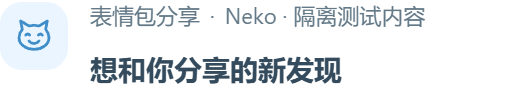
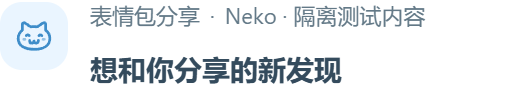
style: 调圆表情包猫脸并增加软萌表情

Changed region(s): [[0.0295, 0.3478, 0.1181, 0.5435], [0.0295, 0.2174, 0.1181, 0.3043]]

diff --git a/frontend/react-neko-chat/src/ProactiveRecommendationBlock.tsx b/frontend/react-neko-chat/src/ProactiveRecommendationBlock.tsx
@@ -12,7 +12,7 @@ const icons: Record<ProactiveBlock['category'], ReactNode> = {
   community: <><path d="M7 10a4 4 0 1 1 7 2M4 20v-2a5 5 0 0 1 9-3M17 13v6m-3-3h6" /></>,
   video: <><rect x="3" y="5" width="18" height="14" rx="4" /><path d="m10 9 5 3-5 3Z" /></>,
   personal: <><path d="M8 18H5l-2 3V8a4 4 0 0 1 4-4h10a4 4 0 0 1 4 4v6a4 4 0 0 1-4 4h-4M8 9h8M8 13h5" /></>,
-  meme: <><path d="M5 8 4 3l5 3a10 10 0 0 1 6 0l5-3-1 5a8 8 0 0 1 2 5c0 4-4 7-9 7s-9-3-9-7a8 8 0 0 1 2-5Z" /><path d="M7 11.5c.7-1 1.7-1 2.4 0m5.2 0c.7-1 1.7-1 2.4 0M9 15c1.5 2 4.5 2 6 0" /></>,
+  meme: <><path d="M5 8.5V5a1 1 0 0 1 1.6-.8L10 6.5a12 12 0 0 1 4 0l3.4-2.3A1 1 0 0 1 19 5v3.5c1.7 1.3 2.5 3.1 2.5 5 0 4.4-4 6.5-9.5 6.5S2.5 17.9 2.5 13.5c0-1.9.8-3.7 2.5-5Z" /><path d="M7.3 11.8q.9-1 1.8 0m5.8 0q.9-1 1.8 0M9.4 14.6v.4a1.3 1.3 0 0 0 2.6 0 1.3 1.3 0 0 0 2.6 0v-.4" /><path d="M5.8 14h.8m10.8 0h.8" strokeOpacity=".5" /></>,
   vision: <><path d="M2 12s4-7 10-7 10 7 10 7-4 7-10 7S2 12 2 12Z" /><circle cx="12" cy="12" r="3" /></>,
   window: <><rect x="3" y="4" width="18" height="16" rx="3" /><path d="M3 9h18M7 6.5h.01M10 6.5h.01" /></>,
   chat: <path d="m12 3 2.5 6.5L21 12l-6.5 2.5L12 21l-2.5-6.5L3 12l6.5-2.5Z" />,
